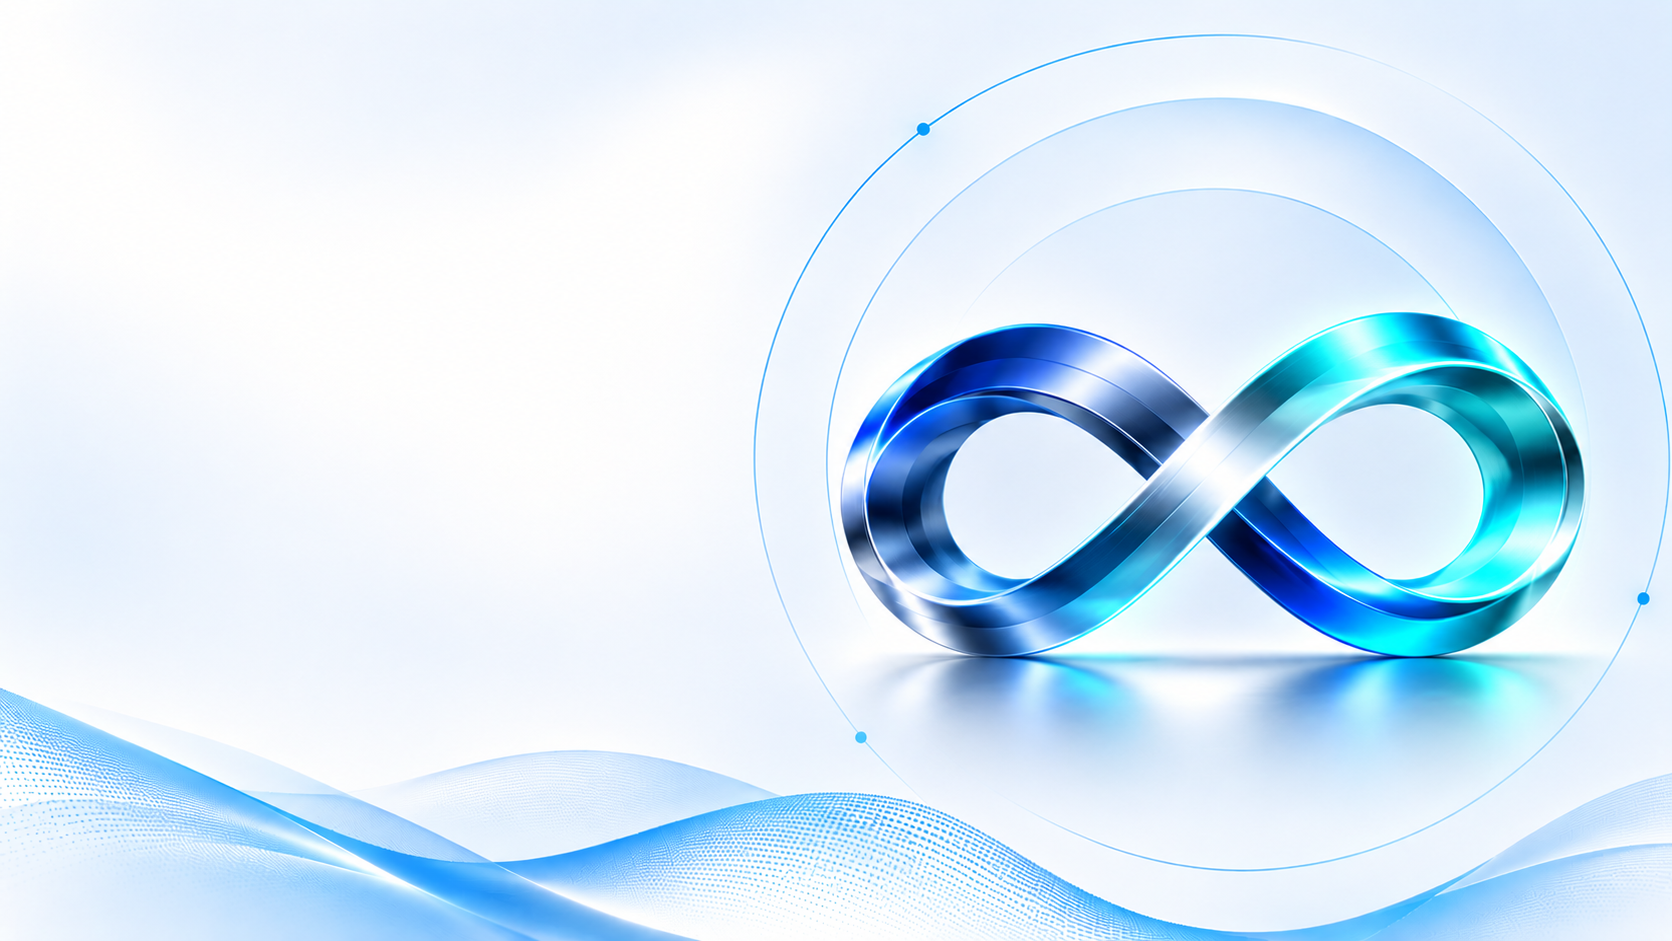
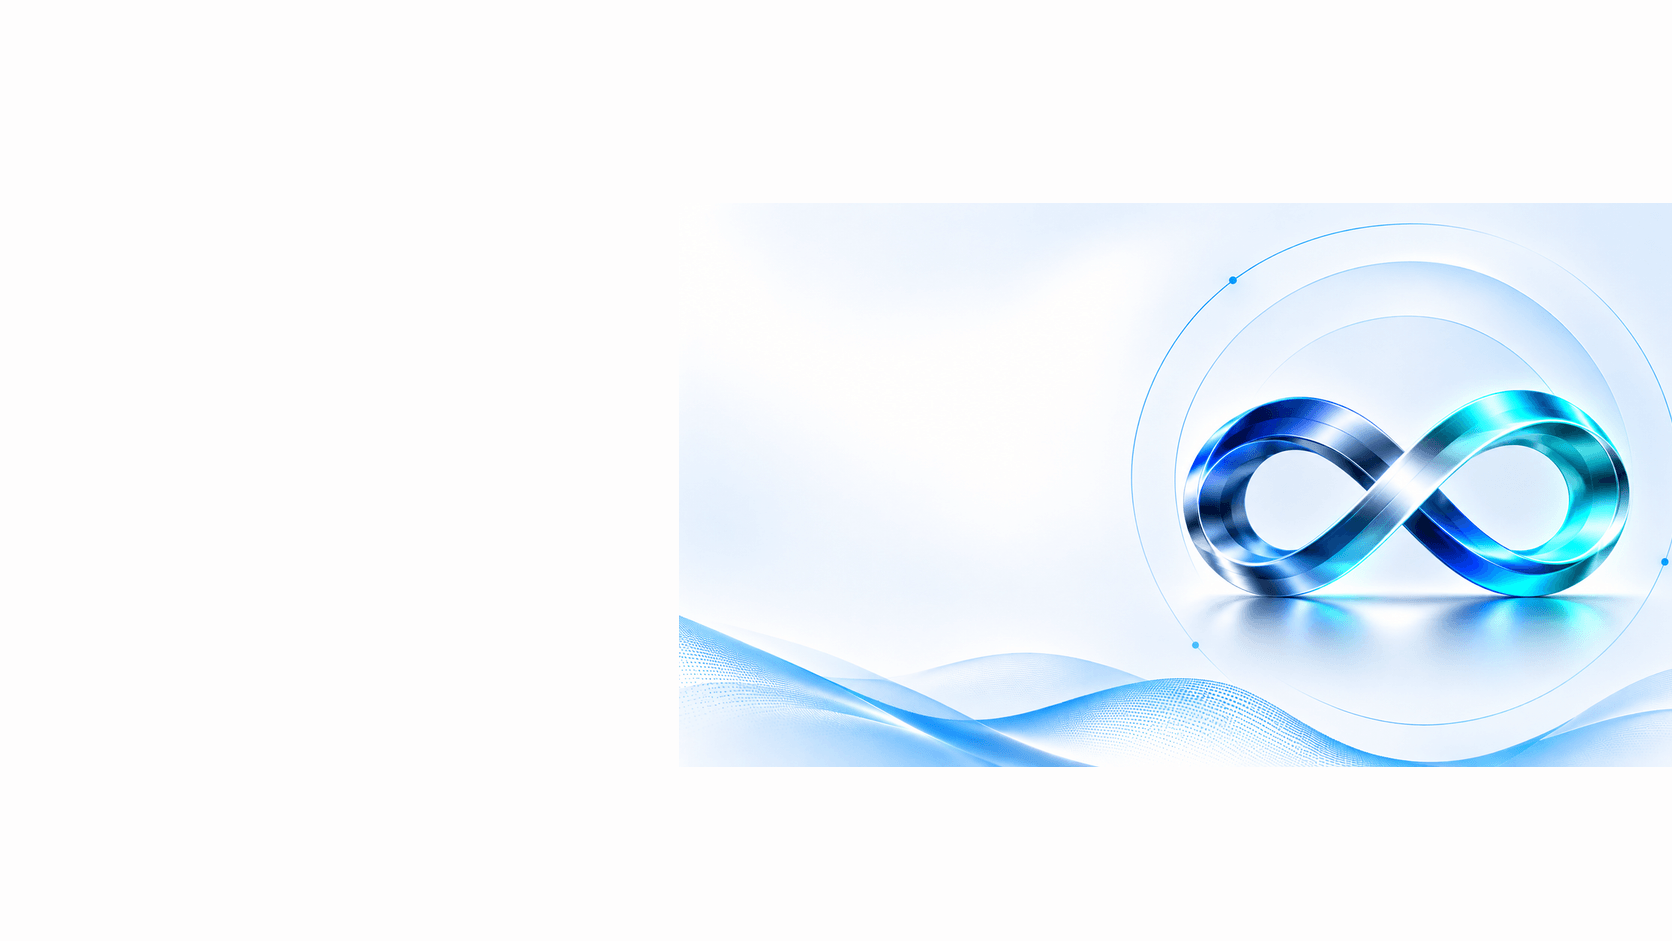
fix(theme,hero,process): scope dark gradients, reduce light mode infinity size, and fix process tab black screen

diff --git a/src/components/home/SimpleTransparentProcessSection.tsx b/src/components/home/SimpleTransparentProcessSection.tsx
@@ -263,6 +263,18 @@ export function SimpleTransparentProcessSection() {
 
   const currentSteps = activeTab === 'jobSeekers' ? JOB_SEEKER_STEPS : EMPLOYER_STEPS;
 
+  const handleTabChange = (tab: 'jobSeekers' | 'employers') => {
+    if (tab === activeTab) return;
+    setActiveTab(tab);
+    if (cardsRef.current && cardsRef.current.length > 0) {
+      gsap.fromTo(
+        cardsRef.current.filter(Boolean),
+        { scale: 0.96 },
+        { scale: 1, duration: 0.35, ease: 'back.out(1.4)', stagger: 0.02 }
+      );
+    }
+  };
+
   useGSAP(
     () => {
       if (typeof window === 'undefined') return;
@@ -466,7 +478,7 @@ export function SimpleTransparentProcessSection() {
         }
       );
     },
-    { scope: sectionRef, dependencies: [activeTab] }
+    { scope: sectionRef, dependencies: [] }
   );
 
   return (
@@ -550,7 +562,7 @@ export function SimpleTransparentProcessSection() {
             className="process-audience-toggle inline-flex items-center p-1.5 rounded-full bg-white/10 border border-white/20 backdrop-blur-md shadow-lg mb-6 sm:mb-8 lg:mb-10 select-none pointer-events-auto"
           >
             <button
-              onClick={() => setActiveTab('jobSeekers')}
+              onClick={() => handleTabChange('jobSeekers')}
               className={`px-6 sm:px-7 py-2.5 rounded-full text-xs sm:text-sm font-bold transition-all duration-300 cursor-pointer ${activeTab === 'jobSeekers'
                   ? 'bg-[#1e3ef0] text-white shadow-md'
                   : 'text-white/70 hover:text-white'
@@ -559,7 +571,7 @@ export function SimpleTransparentProcessSection() {
               For Job Seekers
             </button>
             <button
-              onClick={() => setActiveTab('employers')}
+              onClick={() => handleTabChange('employers')}
               className={`px-6 sm:px-7 py-2.5 rounded-full text-xs sm:text-sm font-bold transition-all duration-300 cursor-pointer ${activeTab === 'employers'
                   ? 'bg-[#1e3ef0] text-white shadow-md'
                   : 'text-white/70 hover:text-white'
@@ -598,9 +610,7 @@ export function SimpleTransparentProcessSection() {
                   minHeight: '370px',
                   maxHeight: '425px',
                   transformOrigin: '50% 100%',
-                  transformStyle: 'preserve-3d',
-                  opacity: 0,
-                  transform: 'translateY(200px) scale(0.82)'
+                  transformStyle: 'preserve-3d'
                 }}
               >
                 {/* Snow Cap Decoration on Top Edge (Authentic Netbounce Style) */}

diff --git a/src/components/home/CandidateAndEmployerExperienceSection.tsx b/src/components/home/CandidateAndEmployerExperienceSection.tsx
@@ -597,7 +597,7 @@ export function CandidateAndEmployerExperienceSection() {
                     {isLeft ? (
                       <div className="md:pr-8 lg:pr-10 md:flex md:justify-end">
                         <div 
-                          className="journey-card journey-card-left relative w-full md:max-w-[430px] p-6 sm:p-7 rounded-3xl border transition-[box-shadow,border-color] duration-300 shadow-2xl hover:-translate-y-1 group overflow-hidden pl-14 md:pl-7"
+                          className="journey-card journey-card-left bg-white dark:bg-transparent relative w-full md:max-w-[430px] p-6 sm:p-7 rounded-3xl border transition-[box-shadow,border-color] duration-300 shadow-2xl hover:-translate-y-1 group overflow-hidden pl-14 md:pl-7"
                           style={{
                             borderColor: `${step.borderColor}60`
                           }}
@@ -671,7 +671,7 @@ export function CandidateAndEmployerExperienceSection() {
                     {!isLeft ? (
                       <div className="md:pl-8 lg:pl-10 md:flex md:justify-start">
                         <div 
-                          className="journey-card journey-card-right relative w-full md:max-w-[430px] p-6 sm:p-7 rounded-3xl border transition-[box-shadow,border-color] duration-300 shadow-2xl hover:-translate-y-1 group overflow-hidden pl-14 md:pl-7"
+                          className="journey-card journey-card-right bg-white dark:bg-transparent relative w-full md:max-w-[430px] p-6 sm:p-7 rounded-3xl border transition-[box-shadow,border-color] duration-300 shadow-2xl hover:-translate-y-1 group overflow-hidden pl-14 md:pl-7"
                           style={{
                             borderColor: `${step.borderColor}60`
                           }}
@@ -783,7 +783,7 @@ export function CandidateAndEmployerExperienceSection() {
               return (
                 <div 
                   key={step.titleKey}
-                  className="employer-step-card p-7 sm:p-8 rounded-3xl border transition-all duration-300 relative group flex flex-col justify-between overflow-hidden shadow-2xl hover:-translate-y-1.5"
+                  className="employer-step-card bg-white dark:bg-transparent p-7 sm:p-8 rounded-3xl border transition-all duration-300 relative group flex flex-col justify-between overflow-hidden shadow-2xl hover:-translate-y-1.5"
                   style={{
                     borderColor: `${step.accent}35`
                   }}

diff --git a/src/app/globals.css b/src/app/globals.css
@@ -135,13 +135,16 @@ html.light .dark-only {
 }
 
 /* Default Dark Mode Card Styles */
-.journey-card {
+html:not(.light) .journey-card,
+html.dark .journey-card {
   background: linear-gradient(135deg, rgba(0, 213, 223, 0.08), #070B0E 65%);
 }
-.employer-step-card {
+html:not(.light) .employer-step-card,
+html.dark .employer-step-card {
   background: linear-gradient(145deg, rgba(0, 213, 223, 0.08), #070B0E 70%);
 }
-.experience-cta-card {
+html:not(.light) .experience-cta-card,
+html.dark .experience-cta-card {
   background: linear-gradient(135deg, rgba(0, 213, 223, 0.12), #070D10 40%, rgba(56, 189, 248, 0.12));
 }
 
@@ -211,6 +214,25 @@ html.light .experience-cta-card {
   background: linear-gradient(135deg, #FFFFFF, #F0FDFA 60%, #F8FAFC) !important;
   border-color: #CBD5E1 !important;
   box-shadow: 0 20px 40px -10px rgba(0, 0, 0, 0.07) !important;
+}
+
+/* Card typography protection in Light Mode */
+html.light .journey-card h3,
+html.light .employer-step-card h3 {
+  color: #0F172A !important;
+}
+html.light .journey-card p,
+html.light .employer-step-card p {
+  color: #475569 !important;
+}
+
+/* Feature Strip & Process Heading protection in Light Mode */
+html.light .hero-feature-strip {
+  border-color: #E2E8F0 !important;
+}
+html.light #process h2 {
+  filter: none !important;
+  text-shadow: none !important;
 }
 
 /* Border Overrides in Light Mode */
